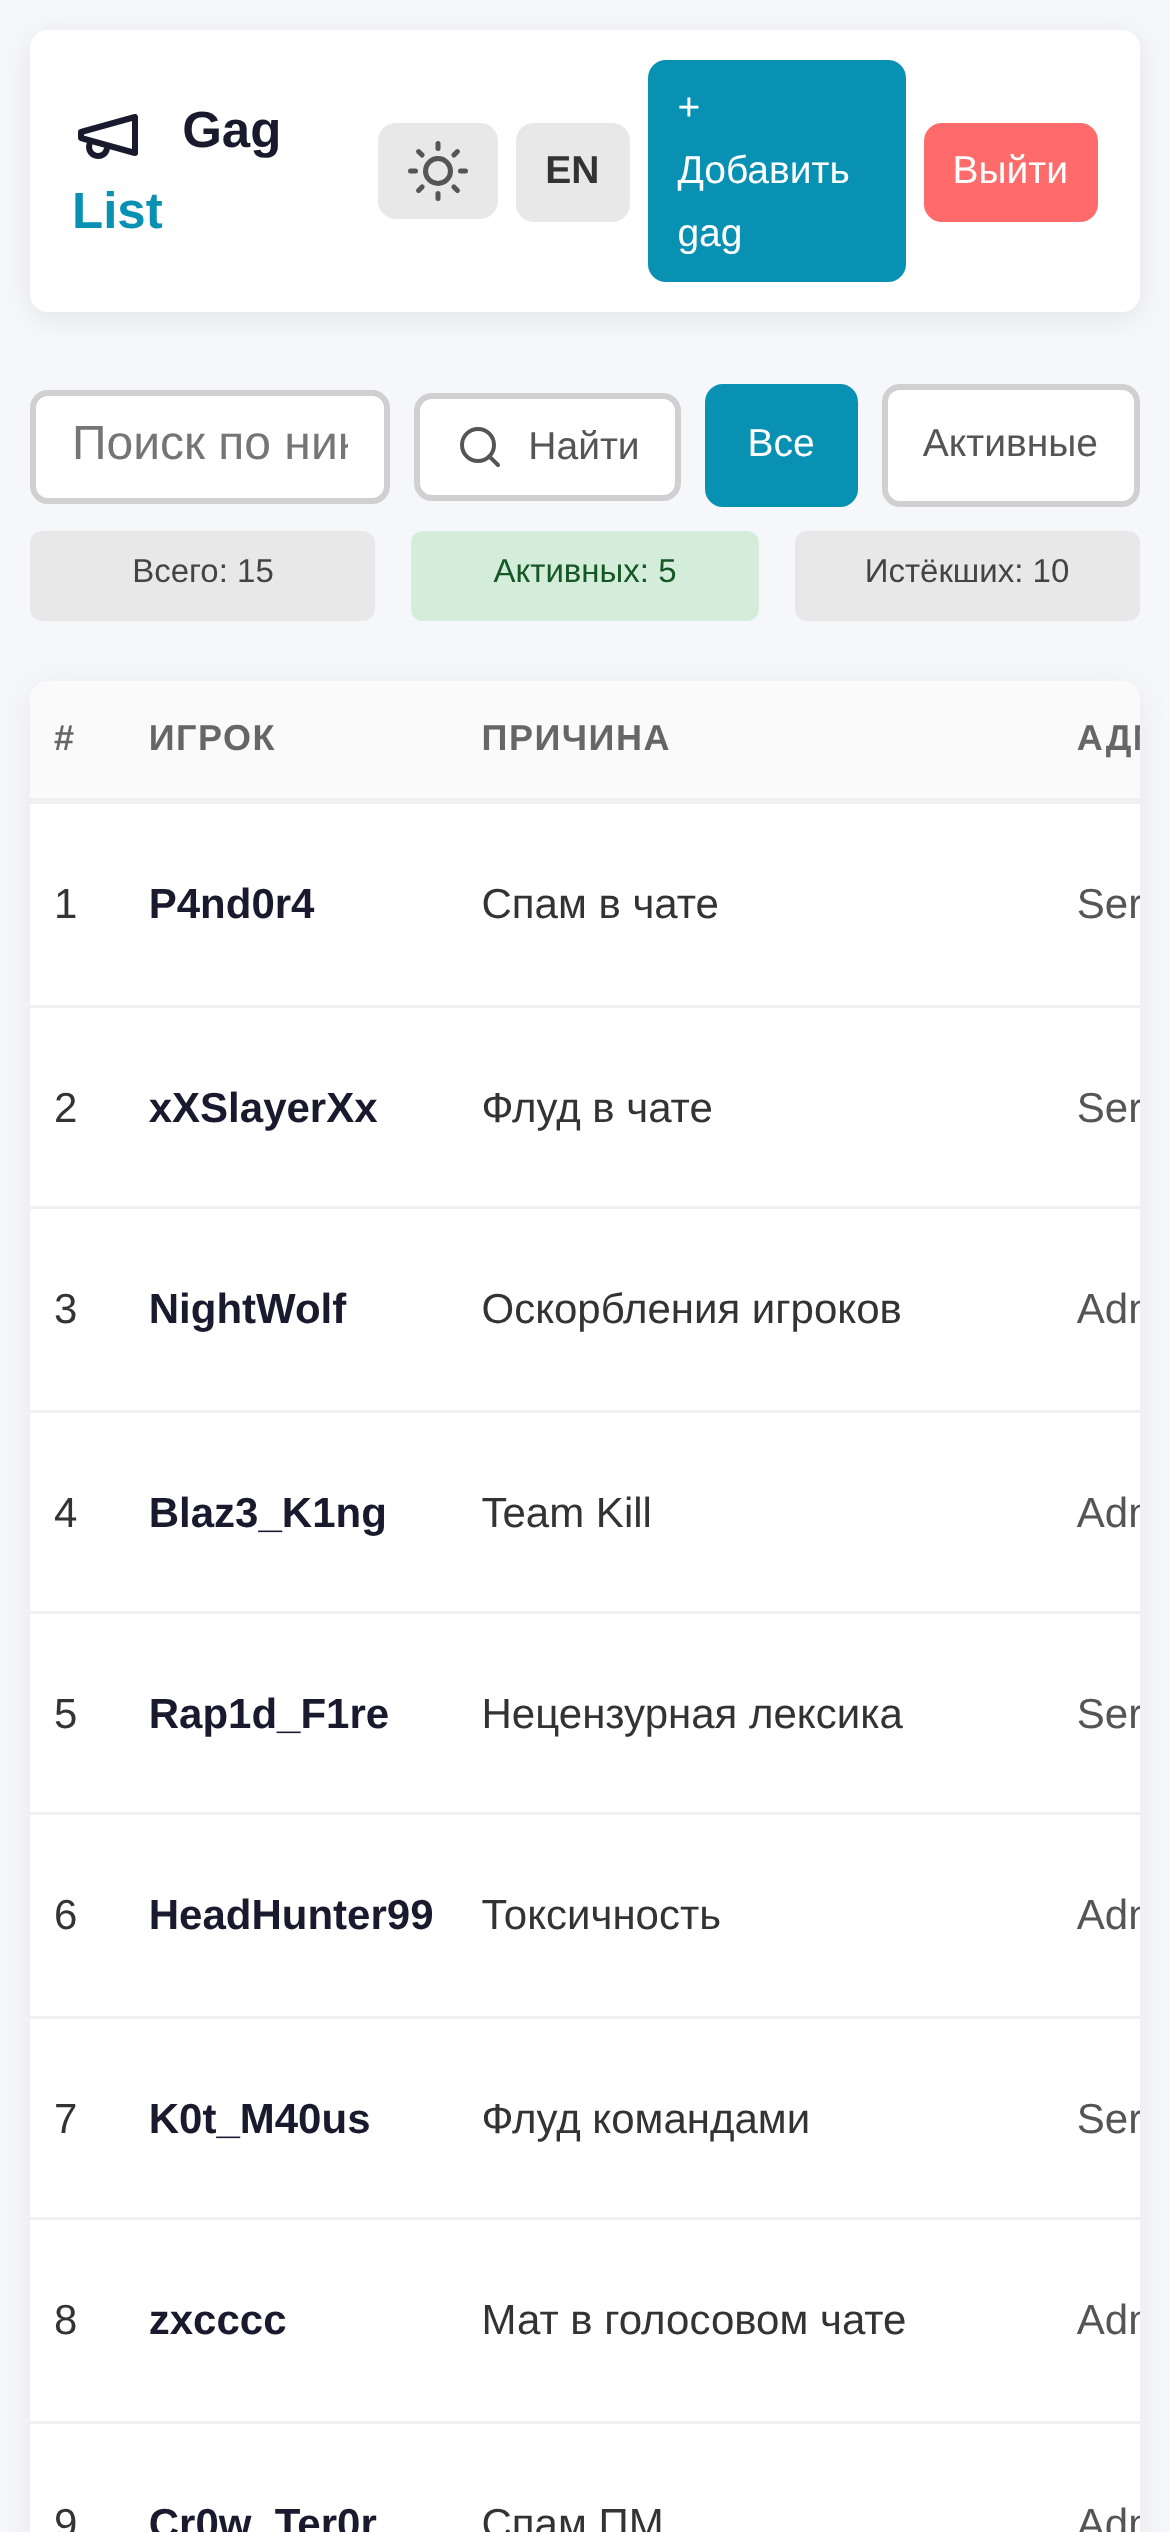
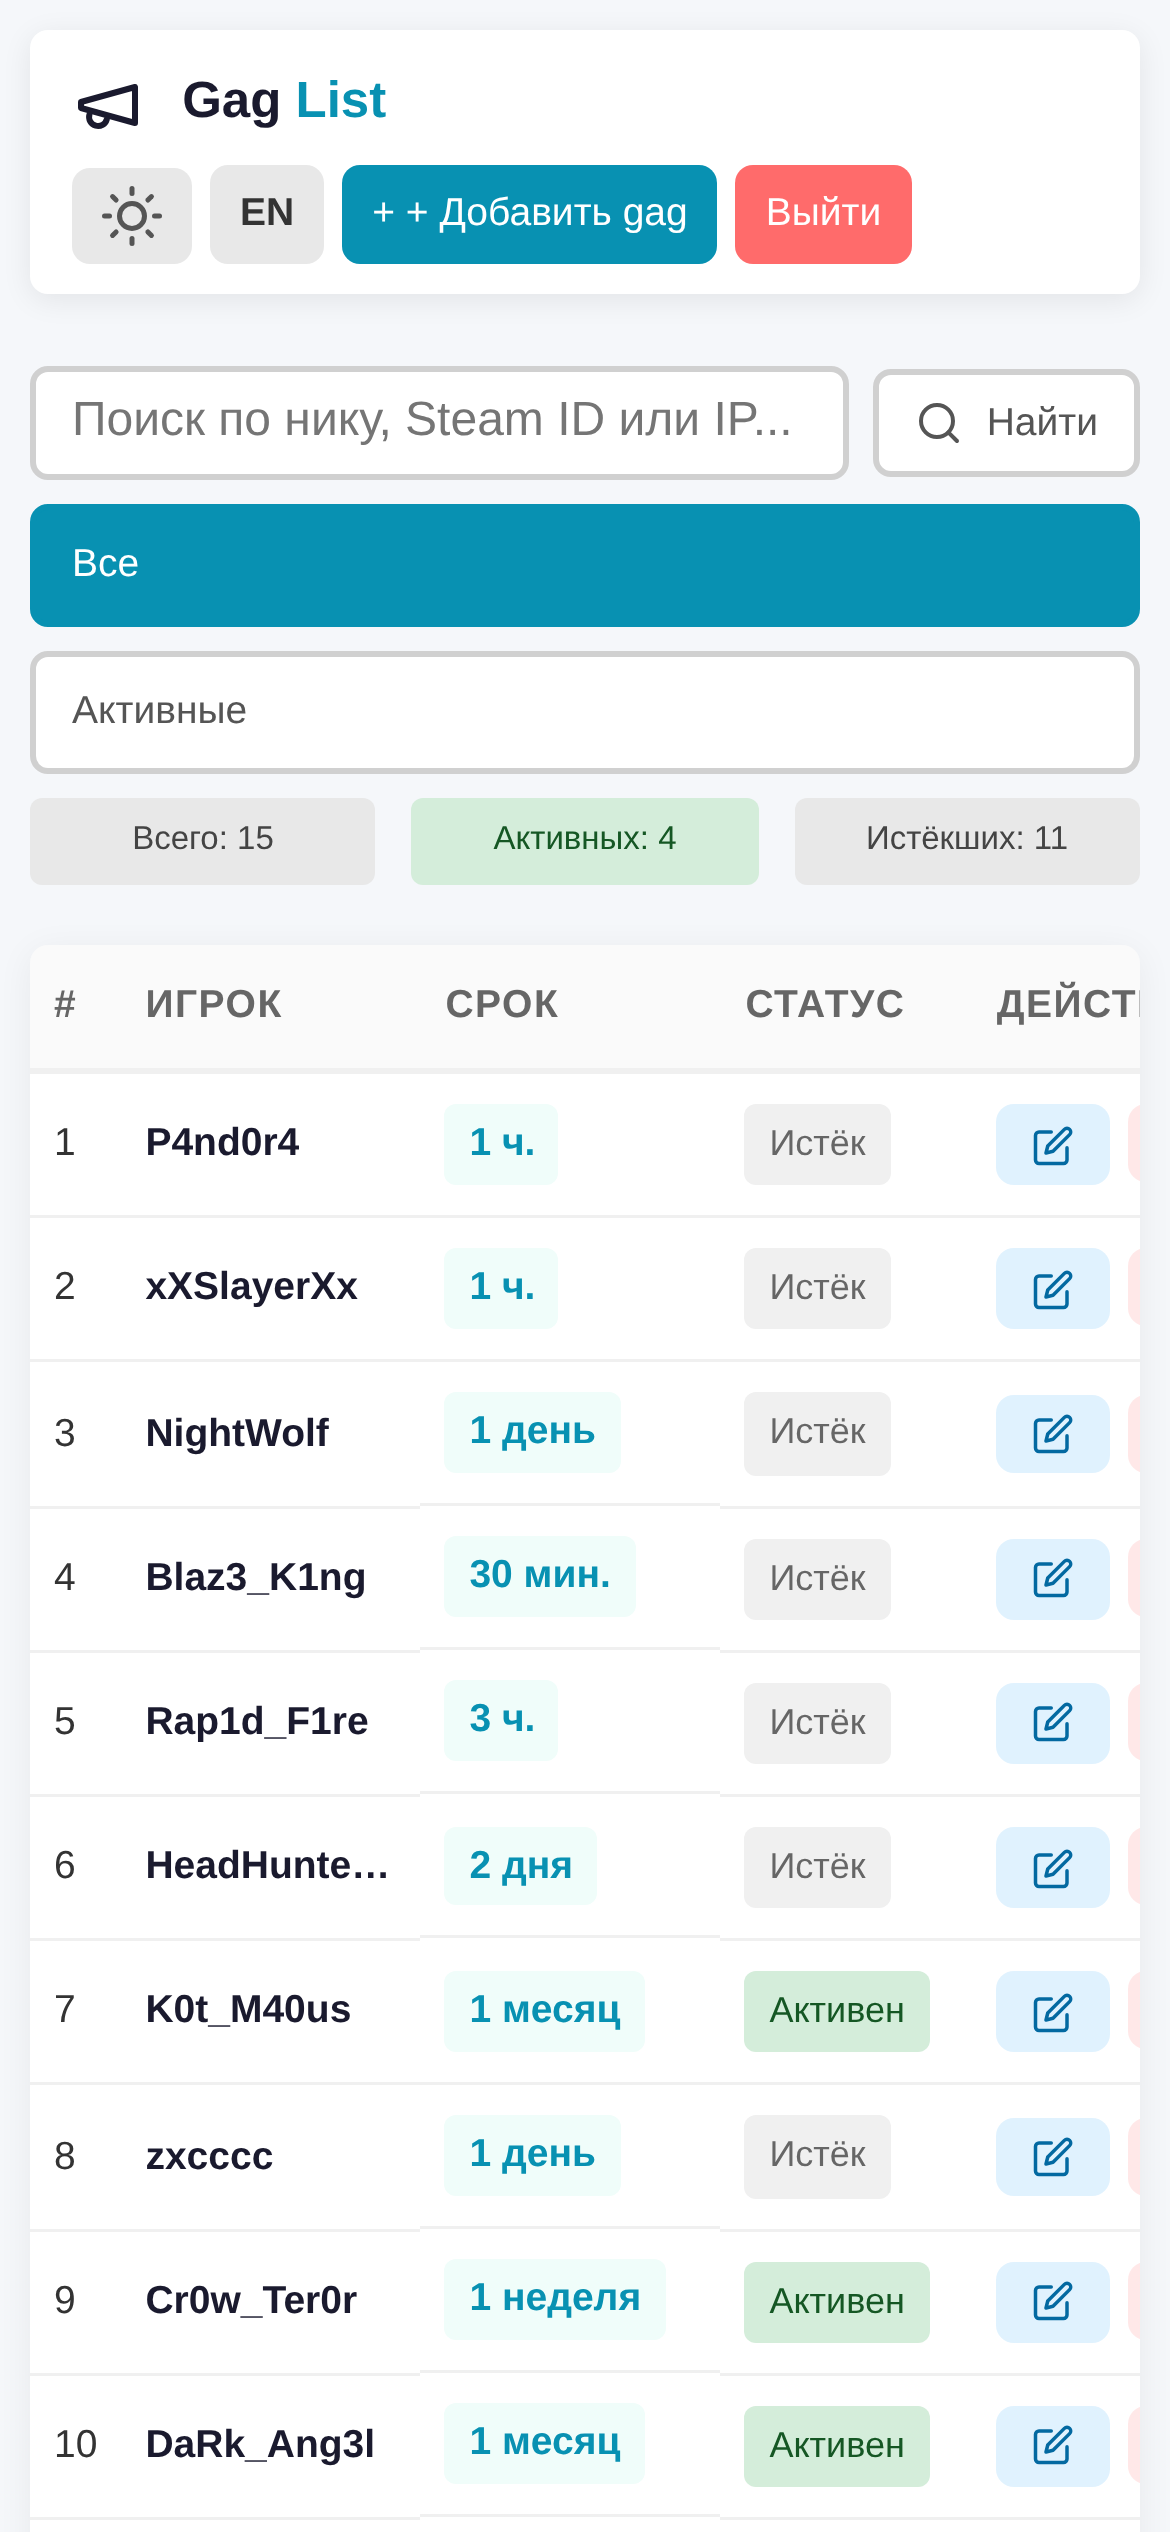
fix: improve mobile layout and update mobile screenshots
- Header wraps buttons on narrow screens
- Toolbar stacks vertically (search, filters, stats)
- Hide admin/reason columns on mobile, show #/player/duration/status
- Table horizontally scrollable with overflow-x
- Player names truncate with ellipsis
- Date ranges hidden on mobile
- Update mobile screenshots with new responsive layout

diff --git a/style.css b/style.css
@@ -741,6 +741,7 @@ tbody tr:last-child td {
         flex-direction: row;
         gap: 8px;
         padding: 10px 14px;
+        flex-wrap: wrap;
     }
 
     header h1 {
@@ -749,6 +750,8 @@ tbody tr:last-child td {
 
     .nav-links {
         gap: 6px;
+        flex-wrap: wrap;
+        justify-content: flex-end;
     }
 
     .nav-links a, .nav-links button {
@@ -756,12 +759,24 @@ tbody tr:last-child td {
         font-size: 13px;
     }
 
+    .btn-add {
+        font-size: 12px;
+        padding: 6px 10px;
+    }
+
+    .btn-add::before {
+        content: "+ ";
+    }
+
     .toolbar {
         gap: 8px;
+        flex-direction: column;
+        align-items: stretch;
     }
 
     .search-form {
         min-width: 0 !important;
+        flex-wrap: wrap;
     }
 
     .search-box {
@@ -792,17 +807,25 @@ tbody tr:last-child td {
     }
 
     .col-ip,
-    .col-steamid {
+    .col-steamid,
+    .col-admin,
+    .col-reason {
         display: none;
     }
 
     table {
-        min-width: 480px;
+        min-width: 0;
+    }
+
+    .table-wrapper {
+        overflow-x: auto;
+        -webkit-overflow-scrolling: touch;
     }
 
     thead th,
     tbody td {
         padding: 10px 8px;
+        font-size: 13px;
     }
 
     thead th:last-child {
@@ -814,7 +837,18 @@ tbody tr:last-child td {
     }
 
     .player-name {
-        max-width: 120px;
+        max-width: 100px;
+        overflow: hidden;
+        text-overflow: ellipsis;
+        white-space: nowrap;
+    }
+
+    .date-cell {
+        min-width: 100px;
+    }
+
+    .date-range {
+        display: none;
     }
 
     .form-row {
